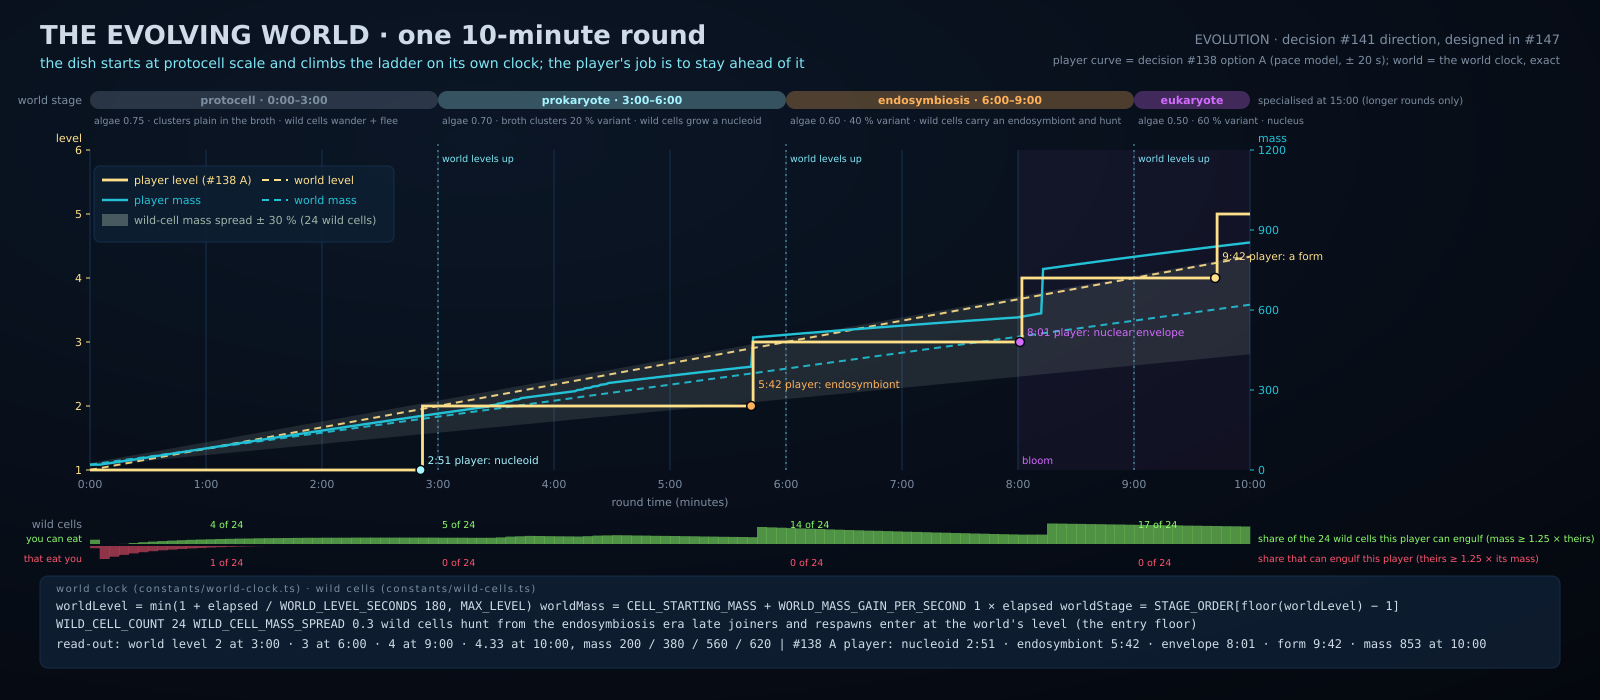
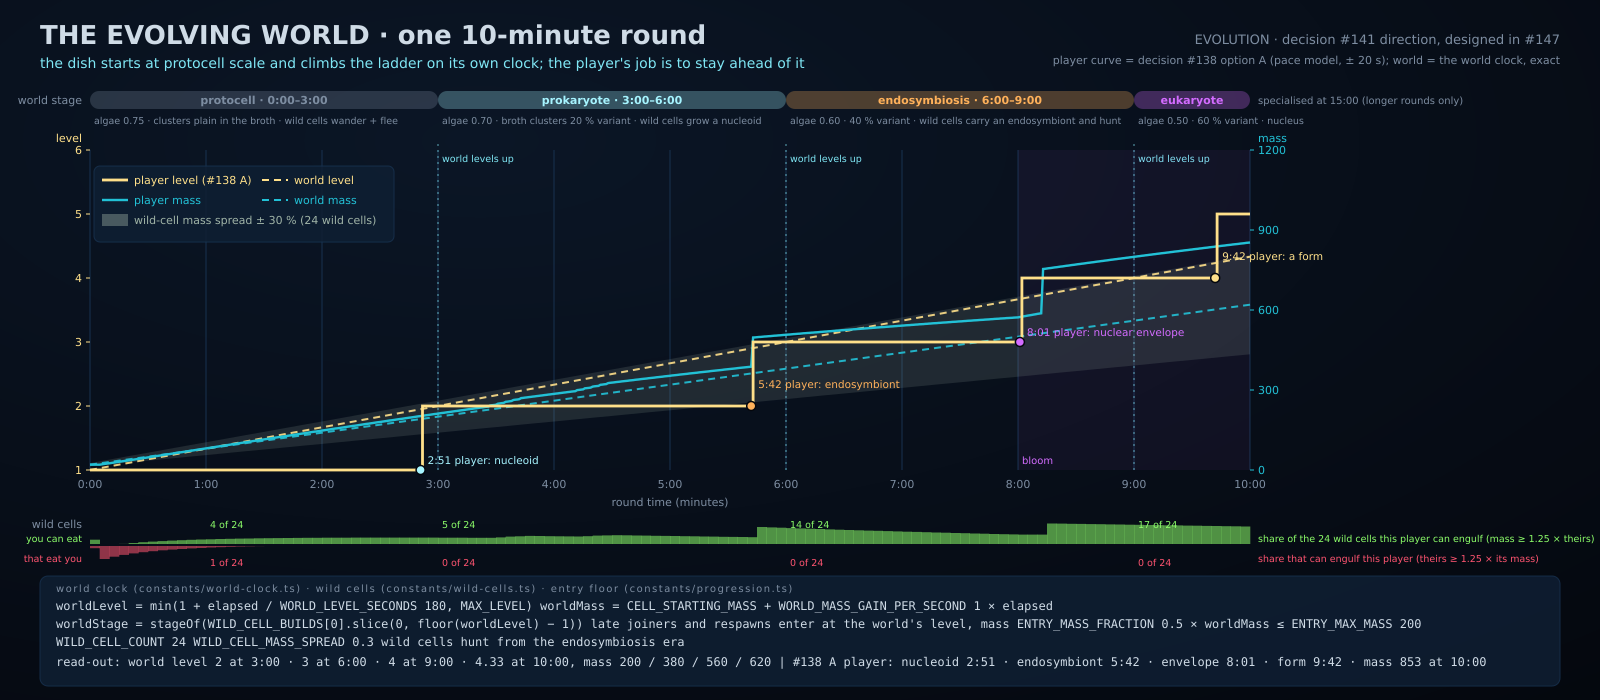
wip: #156 fix round (entry fraction 0.5 in W5, W6/W10 re-pins, timeline regen)

Changed region(s): [[0.0, 0.84, 1.0, 0.99]]

diff --git a/qa/decisions/dish-play-scale/evolving/evolving_world.py b/qa/decisions/dish-play-scale/evolving/evolving_world.py
@@ -32,6 +32,8 @@ WORLD_MASS_GAIN_PER_SECOND = 1.0
 WILD_CELL_MASS_SPREAD = 0.3
 WILD_CELL_COUNT = 24
 ENGULF_MASS_RATIO = 1.25
+ENTRY_MASS_FRACTION = 0.5  # PROGRESSION §6, decision #141 option B
+ENTRY_MAX_MASS = 200
 MAX_LEVEL = pm.MAX_LEVEL
 STAGES = ["protocell", "prokaryote", "endosymbiosis", "eukaryote", "specialised"]
 STAGE_COLOURS = [MUTED, CYAN_RIM, MITO, DNA, GOLD]
@@ -45,8 +47,13 @@ def world_mass(t):
     return pm.CELL_STARTING_MASS + WORLD_MASS_GAIN_PER_SECOND * t
 
 
+# stage of the world's own picks (ECOLOGY §3.1): build 0 picks nucleoid, endosymbiont, envelope, a form's
+# prerequisite (still eukaryote), then the form; the index is by number of picks = floor(worldLevel) − 1
+STAGE_INDEX_BY_PICKS = [0, 1, 2, 3, 3, 4]
+
+
 def world_stage_index(t):
-    return min(int(world_level(t)) - 1, len(STAGES) - 1)
+    return STAGE_INDEX_BY_PICKS[min(int(world_level(t)) - 1, len(STAGE_INDEX_BY_PICKS) - 1)]
 
 
 # ---- layout ----
@@ -203,14 +210,15 @@ def render(sim):
     o.append(f'<rect x="{lx}" y="{ly + 34}" width="26" height="12" fill="{WILD}" opacity="0.4"/>')
     o.append(text(lx + 32, ly + 44, f"wild-cell mass spread ± {int(WILD_CELL_MASS_SPREAD * 100)} % ({WILD_CELL_COUNT} wild cells)", 11, WILD))
 
-    # footer: constants strip, three lines
+    # footer: constants strip, four lines
     fy = 596
-    o.append(f'<rect x="40" y="{fy - 20}" width="{W - 80}" height="92" rx="8" fill="{PANEL}" opacity="0.85" stroke="{PANEL_RIM}"/>')
-    o.append(text(56, fy - 4, "world clock (constants/world-clock.ts) · wild cells (constants/wild-cells.ts)", 10, MUTED, extra='letter-spacing="1.5"'))
-    o.append(text(56, fy + 14, f"worldLevel = min(1 + elapsed / WORLD_LEVEL_SECONDS {WORLD_LEVEL_SECONDS}, MAX_LEVEL)   worldMass = CELL_STARTING_MASS + WORLD_MASS_GAIN_PER_SECOND {WORLD_MASS_GAIN_PER_SECOND:g} × elapsed   worldStage = STAGE_ORDER[floor(worldLevel) − 1]", 12, TEXT, family="DejaVu Sans Mono"))
-    o.append(text(56, fy + 32, f"WILD_CELL_COUNT {WILD_CELL_COUNT}   WILD_CELL_MASS_SPREAD {WILD_CELL_MASS_SPREAD}   wild cells hunt from the endosymbiosis era   late joiners and respawns enter at the world's level (the entry floor)", 12, TEXT, family="DejaVu Sans Mono"))
+    o.append(f'<rect x="40" y="{fy - 20}" width="{W - 80}" height="110" rx="8" fill="{PANEL}" opacity="0.85" stroke="{PANEL_RIM}"/>')
+    o.append(text(56, fy - 4, "world clock (constants/world-clock.ts) · wild cells (constants/wild-cells.ts) · entry floor (constants/progression.ts)", 10, MUTED, extra='letter-spacing="1.5"'))
+    o.append(text(56, fy + 14, f"worldLevel = min(1 + elapsed / WORLD_LEVEL_SECONDS {WORLD_LEVEL_SECONDS}, MAX_LEVEL)   worldMass = CELL_STARTING_MASS + WORLD_MASS_GAIN_PER_SECOND {WORLD_MASS_GAIN_PER_SECOND:g} × elapsed", 12, TEXT, family="DejaVu Sans Mono"))
+    o.append(text(56, fy + 32, f"worldStage = stageOf(WILD_CELL_BUILDS[0].slice(0, floor(worldLevel) − 1))   late joiners and respawns enter at the world's level, mass ENTRY_MASS_FRACTION {ENTRY_MASS_FRACTION} × worldMass ≤ ENTRY_MAX_MASS {ENTRY_MAX_MASS}", 12, TEXT, family="DejaVu Sans Mono"))
+    o.append(text(56, fy + 50, f"WILD_CELL_COUNT {WILD_CELL_COUNT}   WILD_CELL_MASS_SPREAD {WILD_CELL_MASS_SPREAD}   wild cells hunt from the endosymbiosis era", 12, TEXT, family="DejaVu Sans Mono"))
     lead = {k: pm.mmss(v) for k, v in r.items() if k != "bacteria_met"}
-    o.append(text(56, fy + 52, f"read-out: world level 2 at 3:00 · 3 at 6:00 · 4 at 9:00 · {world_level(600):.2f} at 10:00, mass {world_mass(180):.0f} / {world_mass(360):.0f} / {world_mass(540):.0f} / {world_mass(600):.0f}   |   #138 A player: nucleoid {lead.get('nucleoid')} · endosymbiont {lead.get('endosymbiont')} · envelope {lead.get('envelope')} · form {lead.get('form')} · mass {int(sim['masses'][-1])} at 10:00", 12, TEXT, family="DejaVu Sans Mono"))
+    o.append(text(56, fy + 70, f"read-out: world level 2 at 3:00 · 3 at 6:00 · 4 at 9:00 · {world_level(600):.2f} at 10:00, mass {world_mass(180):.0f} / {world_mass(360):.0f} / {world_mass(540):.0f} / {world_mass(600):.0f}   |   #138 A player: nucleoid {lead.get('nucleoid')} · endosymbiont {lead.get('endosymbiont')} · envelope {lead.get('envelope')} · form {lead.get('form')} · mass {int(sim['masses'][-1])} at 10:00", 12, TEXT, family="DejaVu Sans Mono"))
     o.append("</svg>")
     return "\n".join(o)
 

diff --git a/docs/ECOLOGY.md b/docs/ECOLOGY.md
@@ -652,9 +652,9 @@ reached by no row). Elapsed time is `elapsedTicks / TICK_HZ` with `elapsedTicks`
 | W2  | seed 42, 1 player (seeded world)                                                                                                                                                                                                                                     | idle   | 0 ticks                                 | exactly 24 wild cells (`kind` `wild`, `organismId` `'world'`), each level 1, no traits, stage `protocell`, mass within [14, 26] (20 × spread); no two cell centres (wild or player) within 200 wu; every wild centre within `DISH_RADIUS − SPAWN_EDGE_MARGIN`; E1's mote and fragment counts unchanged and no mote inside any wild cell (wild placement precedes the fill).                                                                                                                                                                                                                                                                                                                                                                                                                                                      |
 | W3  | seed 42, 1 player (seeded world)                                                                                                                                                                                                                                     | idle   | 10 799, then 10 800, then + 3 010 ticks | after tick 10 799 (`elapsedTicks` 10 799 → 179.983 s): every wild cell level 1, no traits, mass = 199.983 × its spread (± 0.01), no `world_level_up` yet. After tick 10 800 (180 s exactly): every wild cell level 2, owns `nucleoid` I, stage `prokaryote`, mass = 200 × its spread (± 0.01); exactly one `world_level_up` effect this tick, `{ level: 2, stage: 'prokaryote' }`. Pure table: `FOOD_KIND_WEIGHTS_BY_WORLD_STAGE.protocell` = algae 0.75 / bacterium 0.25, `.prokaryote` = 0.70 / 0.30 (W9's pattern). Across the boundary, the E14 fixture from tick 10 801 (both accumulators zeroed, both populations held at 0) for 3 010 ticks (10 801–13 810): motes spawned between 351 and 355 (7/s × 3010/60 s = 351.17, the E2 accumulator bound), algae share within 0.70 ± 0.06 (the `prokaryote` row; pinned seed). |
 | W4  | seed 42, A placed at mass 100; seat 0 pinned at spread 1.0, placed 10 wu east of A (mass 20 + _t_/60)                                                                                                                                                                | idle   | 30 ticks, then 631                      | seat 0 sits still (no target before its first decision on tick 30, which runs at step 1 of the payout tick and moves it under 1 wu); engulf starts tick 1 (ratio ≈ 5 → duration 0.5 s), pays out tick 30 with prey mass 20.5 (`elapsedTicks` 30): A mass = `decayed(100, 30)` + 0.8 × 20.5 ≈ 116.32; A `dnaCumulative` = 0 (`ENGULF_DNA_SHARE` × `worldDna` = 0 in the protocell era, no `ENGULF_DNA_BASE`), `predatory` = 10, `wildAbsorptions` = 1, `absorptions` = 0, score = 0; detritus 2 motes = 4 mass; seat 0 has no cell, `respawnInTicks` = 600. At tick 631 seat 0 is alive again at mass 30.517 × a fresh spread (within [21.36, 39.67]).                                                                                                                                                                            |
-| W5  | seed 42, B placed at mass 20; seat 0 pinned at spread 5.0 (mass 100 + _t_/12), placed 10 wu east of B                                                                                                                                                                | idle   | 31 ticks, then 211                      | seat 0 sits still until its first decision on tick 30 (world `protocell`: it wanders, not hunts, and moves under 1 wu before step 6); payout on tick 30: B's cell removed, B `lifeState` `spectating`, `spectatingCellId` = seat 0's cell; at tick 31 seat 0's mass = 5 × (20 + 31/60) ≈ 102.58 (re-pinned: the meal is not kept). At tick 211 B is alive at mass 20 (entry rule: 0.25 × 23.52 < 20) and level 1 (world level 1.02, no lift; GAME-DESIGN §5.2).                                                                                                                                                                                                                                                                                                                                                                  |
-| W6  | seed 42, run to tick 21 600; at tick 21 600 the fixture places seat 0 at spread 1.0 (mass 380, radius 77.97) and A at mass 20, pinned, 390 wu east of seat 0                                                                                                         | idle   | 21 600 + 60 ticks                       | seat 0's first decision after placement is tick 21 600 itself (≡ 0 mod 30; `elapsedTicks` 21 600 → level 3.0 at step 1): world stage `endosymbiosis` ≥ `WILD_CELL_HUNTS_FROM_STAGE`, `canEngulf(seat 0, A)`, distance 5 radii ≤ 10 → target = A's centre; by tick 21 660 its velocity points at A within 5° (it starts from rest: no wander velocity to blend out) and the distance has shrunk. The same setup placed and run at tick 21 570 instead (`elapsedTicks` 21 570 → level 2.9983, world `prokaryote`): seat 0's target is not A's centre.                                                                                                                                                                                                                                                                              |
+| W5  | seed 42, B placed at mass 20; seat 0 pinned at spread 5.0 (mass 100 + _t_/12), placed 10 wu east of B                                                                                                                                                                | idle   | 31 ticks, then 211                      | seat 0 sits still until its first decision on tick 30 (world `protocell`: it wanders, not hunts, and moves under 1 wu before step 6); payout on tick 30: B's cell removed, B `lifeState` `spectating`, `spectatingCellId` = seat 0's cell; at tick 31 seat 0's mass = 5 × (20 + 31/60) ≈ 102.58 (re-pinned: the meal is not kept). At tick 211 B is alive at mass 20 (entry rule: 0.5 × 23.52 = 11.76 < 20) and level 1 (world level 1.02, no lift; GAME-DESIGN §5.2).                                                                                                                                                                                                                                                                                                                                                                  |
+| W6  | seed 42, run to tick 21 600; at tick 21 600 the fixture places seat 0 at spread 1.0 (mass 380, radius 77.97) and A at mass 20, pinned, 390 wu east of seat 0                                                                                                         | idle   | 21 600 + 60 ticks                       | seat 0's first decision after placement is tick 21 600 itself (≡ 0 mod 30; `elapsedTicks` 21 600 → level 3.0 at step 1): world stage `endosymbiosis` ≥ `WILD_CELL_HUNTS_FROM_STAGE`, `canEngulf(seat 0, A)`, distance 5 radii ≤ 10 → target = A's centre; by tick 21 660 its velocity points at A within 5° (it starts from rest: no wander velocity to blend out) and the distance has shrunk. The same setup placed at tick 21 570 instead (`elapsedTicks` 21 570 → level 2.9972, world `prokaryote`): after tick 21 570 seat 0's target is not A's centre (read it there: from 21 600 that seat hunts too).                                                                                                                                                                                                                                                                              |
 | W7  | seed 42, A placed at mass 100 (radius 40); seat 0 pinned at spread 1.0, placed 89 wu east of A (5 wild radii)                                                                                                                                                        | idle   | 60 ticks                                | `canEngulf(A, seat 0)` holds and A is within 8 wild radii → on tick 30 seat 0's target = its centre + (1, 0) × 2 × its radius (flee east; it sat still until then); by tick 60 its velocity points east within 5° (from rest, no prior velocity). Seat 0 never sprints (`sprintRemainingTicks` = 0 throughout).                                                                                                                                                                                                                                                                                                                                                                                                                                                                                                                  |
 | W8  | seed 42, seat 0 pinned at spread 1.0; an algae mote placed inside seat 0's cell                                                                                                                                                                                      | idle   | 60 ticks                                | the mote is still there (the eating step skips wild cells); seat 0's mass = 21 exactly (`elapsedTicks` 60 → 1 s; pinned, `drainedMass` 0, nothing eaten).                                                                                                                                                                                                                                                                                                                                                                                                                                                                                                                                                                                                                                                                        |
 | W9  | seed 42, 1 player (seeded world), run to tick 32 400 (world `eukaryote`), then the E14 fixture from tick 32 401 (both accumulators zeroed, both populations held at 0) for 3 010 ticks (32 401–35 410)                                                               | idle   | +3 010 ticks                            | motes spawned in the window between 526 and 530 (bloom: 10.5/s × 3010/60 s = 526.75, the E2 accumulator bound); their algae share within 0.50 ± 0.06 (the `eukaryote` row; pinned seed). Pure function `bacteriumVariantWeights(zone, worldStage)`: (`open_broth`, `protocell`) → plain 1 / aerobic 0 / photosynthetic 0; (`open_broth`, `endosymbiosis`) → 0.6 / 0.2 / 0.2; (`viscous_gel`, `eukaryote`) → 0.4 / 0.3 / 0.3; (`warm_vent`, any) → 0.3 / 0.7 / 0.                                                                                                                                                                                                                                                                                                                                                                 |
-| W10 | seed 42, run to tick 21 600; at tick 21 600 the fixture places P (Toxin Vacuole II, mass 380, pinned) and seat 0 at spread 1.2 (mass 456 = 1.2 × P, inside the trait's 1.45 × bound) 10 wu east of P, with seat 0's engulf of P in progress at 0 (as E13 places one) | idle   | + 2 ticks, then to release              | after tick 21 601: seat 0's mass ≈ 455.23 (± 0.01) = 456.02 pinned − 0.79 removed by step 5 over two ticks (toxin 0.05/s of its mass plus base decay), seat 0's `drainedMass` ≈ 0.79, P ≈ 379.98. The pin subtracts the drain instead of restoring it, so seat 0 bleeds tick for tick like a player predator of the same mass and `canContinueEngulf` (1.1 × P) fails on the tick the Toxin Vacuole escape row of TRAITS §6 pins for that player predator (#145's engulf durations; with this document's base `durationS` alone the payout on tick 21 659 would come first, which is what #145 changes): `ratio` release before payout, P alive and `free`, seat 0 `free` with `engulfProgress` 0 and, on the next tick, mass = `worldMass` × 1.2 again (`drainedMass` 0).                                                       |
+| W10 | seed 42, run to tick 21 600; at tick 21 600 the fixture places P (Toxin Vacuole II, mass 380, pinned) and seat 0 at spread 1.2 (mass 456 = 1.2 × P, inside the trait's 1.45 × bound) 10 wu east of P, with seat 0's engulf of P in progress at 0 (as E13 places one) | idle   | + 2 ticks, then to release              | after tick 21 601: seat 0's mass ≈ 455.23 (± 0.01) = 456.02 pinned − 0.79 removed by step 5 over two ticks (toxin 0.05/s of its mass plus base decay), seat 0's `drainedMass` ≈ 0.79, P ≈ 379.98. The pin subtracts the drain instead of restoring it, so seat 0 bleeds tick for tick like a player predator of the same mass and `canContinueEngulf` (1.1 × P) fails on tick 21 627 under #151's cover/wrap (the #145 engulf design: in the wrap, before the seal on 21 635 and the payout on 21 671), the same tick as for a player predator of mass 456 (with this document's base `durationS` alone the payout on tick 21 659 would come first, which is what #145 changes): `ratio` release before payout, P alive and `free`, seat 0 `free` with `engulfProgress` 0 and, on the next tick, mass = `worldMass` × 1.2 again (`drainedMass` 0).                                                       |

diff --git a/docs/GAME-DESIGN.md b/docs/GAME-DESIGN.md
@@ -114,8 +114,10 @@ Rules (home of the pure functions: `packages/server/src/game/progression/ladder.
 - **Build 2** adds colonies and multicellular organisms above `specialised`; they are not stages of
   this enum (a colony is several cells), so the enum is closed for build 1.
 - **The world climbs the same ladder.** The world clock ([`ECOLOGY.md §3.1`](./ECOLOGY.md#31-the-world-clock))
-  gives the dish itself a `worldStage` from this enum, one rung per world level (protocell 0:00,
-  prokaryote 3:00, endosymbiosis 6:00, eukaryote 9:00 in a 600 s round); the wild cells wear that
+  gives the dish itself a `worldStage` from this enum: the stage of the world's own picks,
+  `stageOf` of wild build 0's first floor(`worldLevel`) − 1 traits (protocell 0:00, prokaryote 3:00,
+  endosymbiosis 6:00, eukaryote 9:00 in a 600 s round; `eukaryote` spans levels 4 and 5, because the
+  fifth pick is a form's prerequisite and the form itself is the sixth); the wild cells wear that
   stage's organelles, and a player's standing is read against it (section 5.5). Late joiners and
   respawns enter the ladder no lower than the world's level (section 5.2, [`PROGRESSION.md §5`](./PROGRESSION.md#5-entering-the-dish-late-join-and-respawn)).
 
@@ -189,7 +191,7 @@ document makes. Acceptance scenarios that need a specialised cell grant the form
   the world's level is lifted to it (a score-neutral gift, drafts queued; the stage still needs its gates,
   [`PROGRESSION.md §5`](./PROGRESSION.md#5-entering-the-dish-late-join-and-respawn)), a player at or above it
   keeps its own, and the respawn mass is `ENTRY_MASS_FRACTION` of the world's mass clamped to
-  [`CELL_STARTING_MASS`, `ENTRY_MAX_MASS`] (20 in the first minutes, 0.25 × 410 ≈ 102 at 6:30, 140 at 9:00). The
+  [`CELL_STARTING_MASS`, `ENTRY_MAX_MASS`] (20 in the first minutes, 200 from 6:20 on: 0.5 × 410 clamps to `ENTRY_MAX_MASS` at 6:30 and 0.5 × 560 at 9:00). The
   cell entity is removed the tick it is absorbed; the player's `lifeState` is the only record of
   death ([`ECOLOGY.md §6.2`](./ECOLOGY.md#62-state-diagram)). Scenarios G8, G13.
 - **Disconnect.** A disconnected player's cell stays in the dish for the template's
@@ -435,10 +437,10 @@ pinning, decay in expected values, the meaning of "target N radii east") are sta
 | G5  | seed 42, 1 player, pointer target inside `STEER_DEAD_ZONE_RADII`                                                                                                                                                                                                       | same target every tick                | 60 ticks     | speed = 0.                                                                                                                                                                                                                                                                                                                                                                                                                                                                    |
 | G6  | seed 42, 1 player at position (2900, 0) with target (4000, 0)                                                                                                                                                                                                          | same target every tick                | 120 ticks    | centre.x = `DISH_RADIUS` − radius (clamped), velocity.x = 0.                                                                                                                                                                                                                                                                                                                                                                                                                  |
 | G7  | seed 42, 1 player placed at mass 100                                                                                                                                                                                                                                   | sprint at tick 1, target 5 radii east | 2 ticks      | mass = `decayed(95, 2)` ≈ 95.00 (the 5 % cost, then two ticks of decay); sprint active, speed cap = `SPRINT_SPEED_MULTIPLIER` × maxSpeed; at tick 31 sprint inactive; sprint at tick 100 ignored (cooldown); sprint at tick 181 accepted (181 − 1 = 180 ticks = 3 s).                                                                                                                                                                                                         |
-| G8  | ECOLOGY E9 setup (A absorbs B at tick 30)                                                                                                                                                                                                                              | idle                                  | 31 ticks     | leaderboard[0] = A with score = A.dnaCumulative + 25 = 55; B `lifeState` = `'spectating'`, `spectatingCellId` = A's cell, no cell for B; at tick 211 (30 + 180 + 1) B alive at starting mass (entry rule: 0.25 × `worldMass`(3.52 s) = 5.88 < 20), level, traits and stage unchanged (world level 1.02: no lift).                                                                                                                                                             |
+| G8  | ECOLOGY E9 setup (A absorbs B at tick 30)                                                                                                                                                                                                                              | idle                                  | 31 ticks     | leaderboard[0] = A with score = A.dnaCumulative + 25 = 55; B `lifeState` = `'spectating'`, `spectatingCellId` = A's cell, no cell for B; at tick 211 (30 + 180 + 1) B alive at starting mass (entry rule: 0.5 × `worldMass`(3.52 s) = 11.76 < 20), level, traits and stage unchanged (world level 1.02: no lift).                                                                                                                                                             |
 | G9  | PROGRESSION P7 setup (2 players, third joins at tick 6000)                                                                                                                                                                                                             | idle                                  | join + 1     | joiner's cell exists, placed safely, stage `protocell`, `roundTimeLeftMs` unchanged by the join.                                                                                                                                                                                                                                                                                                                                                                              |
 | G10 | seed 42, 1 player, no input from tick 600; the fixture calls `removePlayer` at tick 2400 (600 + `DISCONNECT_GRACE_MS` / 1000 × 60: the room's wall-clock timer, which the fixture drives; the module never sees the disconnect)                                        | idle                                  | 2401 ticks   | no cell for that player; detritus motes total mass = `DETRITUS_MOTE_MASS` × floor(`DETRITUS_MASS_FRACTION` × the cell's mass at removal / `DETRITUS_MOTE_MASS`) (ECOLOGY §1 rounding).                                                                                                                                                                                                                                                                                        |
 | G11 | seed 42, 1 player                                                                                                                                                                                                                                                      | idle                                  | 37 200 ticks | `world_level_up` effects on ticks 10 800 (`{ level: 2, stage: 'prokaryote' }`), 21 600 (3, `endosymbiosis`) and 32 400 (4, `eukaryote`) and on no other tick (`elapsedTicks` is the integer tick in progress, ECOLOGY §3.1: 10 800 / 60 = 180 s exactly at step 1); through `results` (ticks 36 000–37 199) `worldReference` stays at 600 s (level 4.33); at tick 37 200 (rematch, seed 43) elapsed is 0: world level 1, every wild cell a protocell at mass 20 × its spread. |
 | G12 | pure function `standingAgainstWorld(level, mass, worldReference(180))` (world level 2.0, mass 200)                                                                                                                                                                     | —                                     | —            | (3, 50) → `ahead`; (1, 900) → `behind`; (2, 221) → `ahead`; (2, 220) → `with`; (2, 200) → `with`; (2, 180) → `with`; (2, 179) → `behind`. At `worldReference(0)`: (1, 20) → `with`.                                                                                                                                                                                                                                                                                           |
-| G13 | seed 42, 1 player A placed at level 1, mass 20 (no DNA); at tick 23 371 the fixture places wild seat 0 at spread 5.0 (mass ≈ 2048 vs 20: duration factor 0.5, 30 ticks) 10 wu east of A (the ECOLOGY W5 setup), so seat 0's engulf of A pays out on tick 23 400 (6:30) | idle                                  | 23 581 ticks | A alive on tick 23 581 (23 400 + 180 + 1); `elapsedTicks` 23 581 → 393.017 s → world level 3.18 → A `dnaCumulative` = 140 = `dnaCatchUpGift`, level 3, `dnaTowardNextLevel` = 0, one offer shown (the protocell draft) and one queued, score 0, no tag points; mass = 0.25 × 413.017 ≈ 103.25 (± 0.01; respawn runs at step 9, after this tick's decay). With A at `dnaCumulative` 200 (level 3) at setup instead: gift 0, level 3, still mass ≈ 103.25.                      |
-| G14 | seed 42, 1 player idle; a second player joins before tick 18 000 steps (5:00)                                                                                                                                                                                          | idle                                  | join + 1     | median term 0 (the living player has no DNA) but the world floor is level floor(2.667) = 2: joiner `dnaCumulative` = 60 = `dnaCatchUpGift`, level 2, one offer shown; mass = 0.25 × max(20, 320) = 80, then one tick of decay ≈ 80.00 (± 0.01); score 0. PROGRESSION P7 and P8 hold unchanged (their world floor is level 1).                                                                                                                                                 |
+| G13 | seed 42, 1 player A; run to tick 23 371; at tick 23 371 the fixture places A at level 1, mass 20 (no DNA) and wild seat 0 at spread 5.0 (mass ≈ 2048 vs 20: duration factor 0.5, 30 ticks) 10 wu east of A (the W6 pattern with the ECOLOGY W5 pair: the seeded wild cells never meet an idle A before the fixture does), so seat 0's engulf of A starts on 23 371 and pays out on tick 23 400 (6:30) | idle                                  | 23 581 ticks | A alive on tick 23 581 (23 400 + 180 + 1); `elapsedTicks` 23 581 → 393.017 s → world level 3.18 → A `dnaCumulative` = 140 = `dnaCatchUpGift`, level 3, `dnaTowardNextLevel` = 0, one offer shown (the protocell draft) and one queued, score 0, no tag points; mass = min(0.5 × 413.017, `ENTRY_MAX_MASS`) = 200 exactly (respawn runs at step 9, after this tick's decay). With A placed at `dnaCumulative` 200 (level 3) instead: gift 0, level 3, still mass 200.                                                   |
+| G14 | seed 42, 1 player idle; a second player joins before tick 18 000 steps (5:00)                                                                                                                                                                                          | idle                                  | join + 1     | median term 0 (the living player has no DNA) but the world floor is level floor(2.667) = 2: joiner `dnaCumulative` = 60 = `dnaCatchUpGift`, level 2, one offer shown; mass = 0.5 × max(20, 320) = 160, then one tick of decay ≈ 160.00 (± 0.01; 159.995); score 0. PROGRESSION P8 holds unchanged (its world floor is level 1); P7's mass moves to the cap (0.5 × 400 clamps to 200, one tick of decay ≈ 199.994).                                                                  |

diff --git a/docs/PROGRESSION.md b/docs/PROGRESSION.md
@@ -133,12 +133,12 @@ floor, and for a late joiner the living players' medians can raise it further. O
 | --------------- | ----------------------------------------------------------------------------------------------------------------------------------------------------------------------------------------------------------------------------------------------------------------------------------------------------------------------------------------------------------- |
 | `dnaCumulative` | raised to `max(current, floor(ENTRY_DNA_FRACTION × median dnaCumulative), worldDna)`; the raise is added to `dnaCatchUpGift` (score-neutral, [`GAME-DESIGN.md §5.3`](./GAME-DESIGN.md#53-leaderboard-and-score)). The median term exists only for a late join after `ENTRY_GRACE_SECONDS` with another living player; a respawn uses the world floor alone. |
 | `level`         | Derived from the threshold table; every level-up above the current level queues a draft, so the cell climbs the ladder one draft at a time (a player lifted two rungs at once sees the protocell draft first, then the next).                                                                                                                               |
-| mass            | `clamp(ENTRY_MASS_FRACTION × max(median mass, worldMass), CELL_STARTING_MASS, ENTRY_MAX_MASS)`; a respawn reads `worldMass` alone. In the first minutes this is `CELL_STARTING_MASS` (0.25 × 20 = 5 → 20); at 9:00 it is 140.                                                                                                                               |
+| mass            | `clamp(ENTRY_MASS_FRACTION × max(median mass, worldMass), CELL_STARTING_MASS, ENTRY_MAX_MASS)`; a respawn reads `worldMass` alone. In the first minutes this is `CELL_STARTING_MASS` (0.5 × 20 = 10 → 20); from 6:20 (`worldMass` 400) it is the cap, 200.                                                                                                                               |
 | tag points      | unchanged (a joiner has none, so its drafts are unbiased until it eats; a respawn keeps its own).                                                                                                                                                                                                                                                           |
 
 - **Late join.** Before `ENTRY_GRACE_SECONDS`, or with no other living player, the median term is
   absent and only the world floor applies; in the first minutes that floor is level 1, so an early
-  joiner starts fresh (P8). At 5:00 solo it is level 2 and mass 80 (GAME-DESIGN G14).
+  joiner starts fresh (P8). At 5:00 solo it is level 2 and mass 160 (GAME-DESIGN G14).
 - **Respawn.** Keeps level, traits and stage, keeps only `dnaKeptOnDeathFraction` of
   `dnaTowardNextLevel` ([`GAME-DESIGN.md §5.2`](./GAME-DESIGN.md#52-spawn-death-and-respawn)), then
   runs the entry rule: a player behind the world is lifted to the world's level (G13); the stage
@@ -168,7 +168,7 @@ floor, and for a late joiner the living players' medians can raise it further. O
 | `LEVEL_UP_NO_DRAFT_MASS_BONUS`   | 10                                 | mass    |
 | `ENTRY_GRACE_SECONDS`            | 30                                 | s       |
 | `ENTRY_DNA_FRACTION`             | 0.5                                | ratio   |
-| `ENTRY_MASS_FRACTION`            | 0.25                               | ratio   |
+| `ENTRY_MASS_FRACTION`            | 0.5                                | ratio   |
 | `ENTRY_MAX_MASS`                 | 200                                | mass    |
 | `DNA_TAGS`                       | the seven tags above               | ids     |
 
@@ -194,7 +194,7 @@ and P9 is a pure `buildDraft` call on a eukaryote fixture that needs no level at
 | P4  | pure function `computeDraftWeights` over candidates `cilia`, `simple_flagellum`, `cell_wall` with `motile` tag points 30, none owned                                                                                                                                | —                              | —            | cilia = 4.0 (1.0 × min(4, 1 + 3)), simple_flagellum = 2.0 (0.5 × 4), cell_wall = 1.0.                                                                                                                                                                                                  |
 | P5  | ECOLOGY E9 with A given `dnaCumulative` = `dnaTowardNextLevel` = 40 at setup (A level 1 absorbs B on tick 30; B has no DNA, so the gain is `ENGULF_DNA_BASE` = 30)                                                                                                  | idle                           | 31 ticks     | A `dnaCumulative` = 70, level = 2, `dnaTowardNextLevel` = 10 (70 − 60), exactly one offer shown (opened on tick 30). Without the 40 banked: `dnaCumulative` = 30, level 1, no offer.                                                                                                   |
 | P6  | seed 42, 1 player granted 140 DNA in one tick by the fixture (exactly the level 3 threshold)                                                                                                                                                                        | picks card 0 at tick 5         | 6 ticks      | level 3, `dnaTowardNextLevel` = 0; offer 1 applied at tick 5, offer 2 shown at tick 6 with its own timer; picking `offerId` 1 again at tick 7 is ignored.                                                                                                                              |
-| P7  | seed 42, 2 players with fixture-set `dnaCumulative` 120 / 120 at setup; the fixture sets mass 400 / 400 after tick 5999 and the third player joins before tick 6000 steps (decay is never disabled: set at setup the median would be `decayed(400, 6000)` = 331.12) | idle                           | join + 1     | joiner `dnaCumulative` = 60, `dnaCatchUpGift` = 60, level 2 (exactly the threshold), `dnaTowardNextLevel` = 0, one offer shown (the protocell draft), mass ≈ 99.997 (0.25 × 400, then one tick of decay; ± 0.01), score = 0.                                                           |
+| P7  | seed 42, 2 players with fixture-set `dnaCumulative` 120 / 120 at setup; the fixture sets mass 400 / 400 after tick 5999 and the third player joins before tick 6000 steps (decay is never disabled: set at setup the median would be `decayed(400, 6000)` = 331.12) | idle                           | join + 1     | joiner `dnaCumulative` = 60, `dnaCatchUpGift` = 60, level 2 (exactly the threshold), `dnaTowardNextLevel` = 0, one offer shown (the protocell draft), mass ≈ 199.994 (0.5 × 400 clamps to `ENTRY_MAX_MASS` 200, then one tick of decay; ± 0.01), score = 0.                                                           |
 | P8  | as P7 but the third player joins at tick 600                                                                                                                                                                                                                        | idle                           | join + 1     | joiner fresh: mass 20, `dnaCumulative` 0, level 1, no offer.                                                                                                                                                                                                                           |
 | P9  | pure function `buildDraft` for a eukaryote (fixture) owning `amoeba_pseudopods` I and `cytoskeleton` I, seeds 1..100                                                                                                                                                | —                              | —            | no other form ever appears (`body_plan`); `amoeba_pseudopods` appears only as the tier II upgrade card; `cytoskeleton` only as its tier II card.                                                                                                                                       |
 | P10 | seed 42, 1 player at level 12 with fixture DNA 1760 (fixture only: under #138 option A no player reaches level 12 in a 600 s round, GAME-DESIGN §5.1)                                                                                                               | eat 1 placed DNA fragment      | 1 tick       | `dnaCumulative` = 1765, level 12, no offer.                                                                                                                                                                                                                                            |

diff --git a/docs/TESTING.md b/docs/TESTING.md
@@ -214,7 +214,7 @@ advanced tick (an expectation, a capture, a script window, a join, a leave, a sc
 fixture): a test that could never fail is not a test. So "After N ticks" is the run length and
 must cover the largest assertion tick (G7 says "After 2 ticks" but asserts at 31, 100 and 181:
 `.advance(181)`). "Joins before tick 6000 steps" is `playerJoinsAt(6000)` and "join + 1" is
-`.atTick(6000)` (P7's 99.997 is one decay tick after placement, so join + 1 _is_ 6000). "The
+`.atTick(6000)` (P7's 199.994 is one decay tick after placement, so join + 1 _is_ 6000). "The
 fixture calls `removePlayer` at tick 2400" is `playerLeavesAt(2400, i)`; the cell's last
 observable state is tick 2399 (capture it there). "Fixture sets A.mass = 23 before tick 10" is
 `.atTick(10).placeCell({ playerIndex: 0, mass: 23 })`. "Idle" is no script at all.
